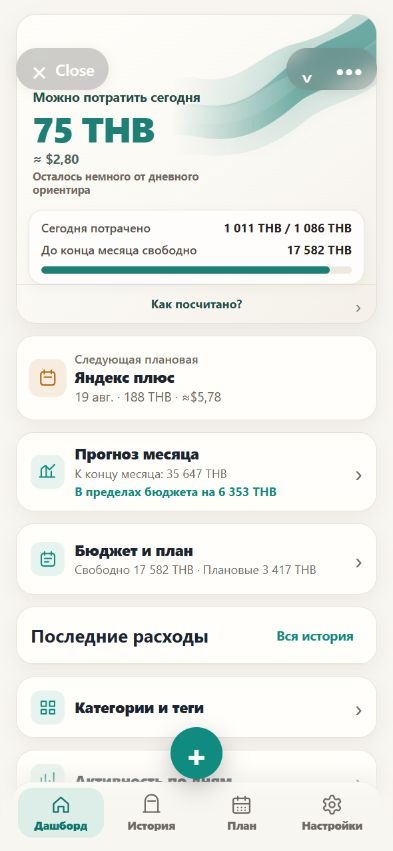
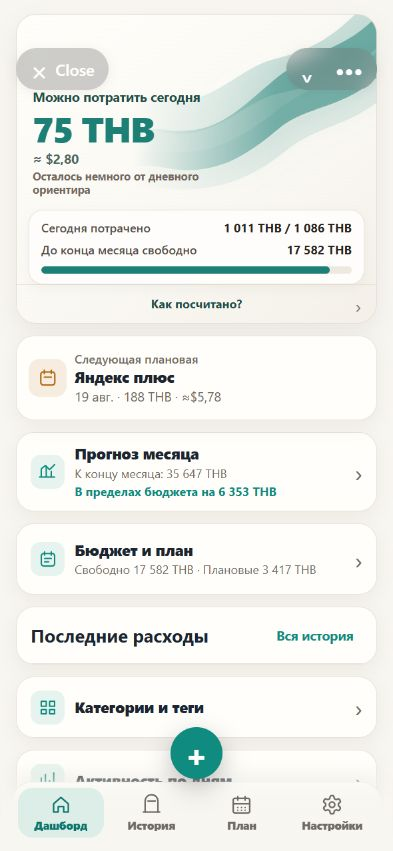
Enlarge evolution hero ribbon

Changed region(s): [[0.3969, 0.0306, 0.9771, 0.2139], [0.916, 0.0, 0.9466, 0.0306]]

diff --git a/apps/miniapp/src/index.html b/apps/miniapp/src/index.html
@@ -5,7 +5,7 @@
     <meta name="viewport" content="width=device-width, initial-scale=1, viewport-fit=cover" />
     <title>Money Flow</title>
     <script src="https://telegram.org/js/telegram-web-app.js"></script>
-    <link rel="stylesheet" href="/styles.css?v=20260812-hero-exploration-v4" />
+    <link rel="stylesheet" href="/styles.css?v=20260812-hero-exploration-v5" />
   </head>
   <body data-theme="light">
     <main class="shell">
@@ -530,6 +530,6 @@
     </nav>
 
     <div class="toast hidden" id="toast" role="status" aria-live="polite"></div>
-    <script src="/app.js?v=20260812-hero-exploration-v4" type="module"></script>
+    <script src="/app.js?v=20260812-hero-exploration-v5" type="module"></script>
   </body>
 </html>

diff --git a/apps/miniapp/test/smokeAssets.test.js b/apps/miniapp/test/smokeAssets.test.js
@@ -23,7 +23,7 @@ test("Mini App keeps app.js and styles.css cache-busters in sync", async () => {
   assert.ok(appVersion, "index.html should version app.js with a ?v= query");
   assert.ok(cssVersion, "index.html should version styles.css with a ?v= query");
   assert.equal(appVersion, cssVersion, "app.js and styles.css cache-busters must stay in sync");
-  assert.equal(appVersion, "20260812-hero-exploration-v4");
+  assert.equal(appVersion, "20260812-hero-exploration-v5");
   assert.notEqual(appVersion, "20260626-dashboard-v12", "app.js must not keep the stale dashboard-v12 cache-buster");
 });
 

diff --git a/apps/miniapp/src/styles.css b/apps/miniapp/src/styles.css
@@ -913,10 +913,10 @@ body.is-fullscreen .hero-metric[data-layout="evolution"] .hero-metric__summary,
 }
 
 .hero-metric[data-layout="evolution"] .hero-metric__ribbon {
-  top: -34px;
-  right: -54px;
-  width: clamp(286px, 82vw, 326px);
-  height: 176px;
+  top: -32px;
+  right: -58px;
+  width: clamp(326px, 96vw, 380px);
+  height: 210px;
 }
 
 .hero-metric[data-layout="evolution"] .hero-metric__facts {
